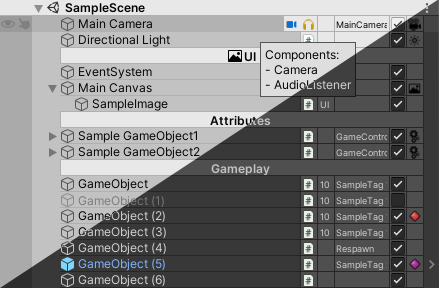
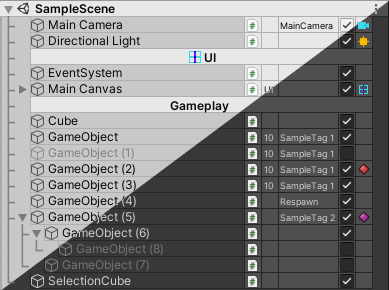
Update docs; fix displaying hierarchy property labels after full-rect labels; update default settings; minor refactor changes

diff --git a/Assets/Editor Toolbox/Editor/Hierarchy/HierarchyPropertyLabel.cs b/Assets/Editor Toolbox/Editor/Hierarchy/HierarchyPropertyLabel.cs
@@ -7,7 +7,7 @@ using UnityEngine;
 
 namespace Toolbox.Editor.Hierarchy
 {
-    //TODO: refactor
+    //TODO: refactor: replace labels with drawers (similar approach to the Inspector), possibility to define drawers and implement them using a dedicated base class
 
     /// <summary>
     /// Base class for all custom, Hierarchy-related labels based on targeted <see cref="GameObject"/>.
@@ -15,16 +15,6 @@ namespace Toolbox.Editor.Hierarchy
     public abstract class HierarchyPropertyLabel
     {
         protected GameObject target;
-
-        /// <summary>
-        /// Does this label draw over the whole item?
-        /// </summary>
-        public virtual bool UsesWholeItemRect { get; } = false;
-
-        /// <summary>
-        /// Should this label draw for headers too?
-        /// </summary>
-        public virtual bool DrawForHeaders { get; } = false;
 
         public virtual bool Prepare(GameObject target, Rect availableRect)
         {
@@ -52,7 +42,6 @@ namespace Toolbox.Editor.Hierarchy
 
         public abstract void OnGui(Rect rect);
 
-
         /// <summary>
         /// Returns built-in label class associated to provided <see cref="HierarchyItemDataType"/>.
         /// </summary>
@@ -77,6 +66,16 @@ namespace Toolbox.Editor.Hierarchy
             return null;
         }
 
+        /// <summary>
+        /// Does this label draw over the whole item?
+        /// </summary>
+        public virtual bool UsesWholeItemRect { get; } = false;
+
+        /// <summary>
+        /// Should this label draw for headers too?
+        /// </summary>
+        public virtual bool DrawForHeaders { get; } = false;
+
         #region Classes: Internal
 
         private class HierarchyIconLabel : HierarchyPropertyLabel
@@ -84,24 +83,27 @@ namespace Toolbox.Editor.Hierarchy
             public override void OnGui(Rect rect)
             {
                 var content = EditorGuiUtility.GetObjectContent(target, typeof(GameObject));
-                if (content.image)
+                if (content.image == null)
                 {
-                    GUI.Label(rect, content.image);
+                    return;
                 }
+
+                GUI.Label(rect, content.image);
             }
         }
 
         private class HierarchyToggleLabel : HierarchyPropertyLabel
         {
+            private readonly GUIContent label = new GUIContent(string.Empty, "Enable/disable GameObject");
+
             public override void OnGui(Rect rect)
             {
-                var content = new GUIContent(string.Empty, "Enable/disable GameObject");
                 //NOTE: using EditorGUI.Toggle will cause bug and deselect all hierarchy toggles when you will pick a multi-selected property in the Inspector
                 var result = GUI.Toggle(new Rect(rect.x + EditorGUIUtility.standardVerticalSpacing,
                         rect.y,
                         rect.width,
                         rect.height),
-                    target.activeSelf, content);
+                    target.activeSelf, label);
 
                 if (rect.Contains(Event.current.mousePosition))
                 {
@@ -116,6 +118,8 @@ namespace Toolbox.Editor.Hierarchy
 
         private class HierarchyTagLabel : HierarchyPropertyLabel
         {
+            private const string untaggedTag = "Untagged";
+
             public override float GetWidth()
             {
                 return Style.maxWidth;
@@ -123,7 +127,7 @@ namespace Toolbox.Editor.Hierarchy
 
             public override void OnGui(Rect rect)
             {
-                var content = new GUIContent(target.CompareTag("Untagged") ? string.Empty : target.tag, target.tag);
+                var content = new GUIContent(target.CompareTag(untaggedTag) ? string.Empty : target.tag, target.tag);
                 EditorGUI.LabelField(rect, content, Style.defaultAlignTextStyle);
             }
         }
@@ -165,7 +169,6 @@ namespace Toolbox.Editor.Hierarchy
             /// </summary>
             private List<Component> cachedComponents;
 
-
             private void CacheComponents(GameObject target)
             {
                 var components = target.GetComponents<Component>();
@@ -173,10 +176,12 @@ namespace Toolbox.Editor.Hierarchy
                 //cache only valid (non-null) components
                 foreach (var component in components)
                 {
-                    if (component)
+                    if (component == null)
                     {
-                        cachedComponents.Add(component);
+                        continue;
                     }
+
+                    cachedComponents.Add(component);
                 }
             }
 
@@ -211,7 +216,6 @@ namespace Toolbox.Editor.Hierarchy
 
                 return content;
             }
-
 
             public override bool Prepare(GameObject target, Rect availableRect)
             {
@@ -302,11 +306,12 @@ namespace Toolbox.Editor.Hierarchy
             private const float columnSize = 14.0f;
 
             private readonly List<TreeLineLevelRenderer> levelRenderers = new List<TreeLineLevelRenderer>();
+
             private int itemRenderCount = 0;
 
             public HierarchyTreeLinesLabel()
             {
-                EditorApplication.update += ResetItemRenderCount; 
+                EditorApplication.update += ResetItemRenderCount;
             }
 
             public void Dispose()
@@ -314,7 +319,7 @@ namespace Toolbox.Editor.Hierarchy
                 EditorApplication.update -= ResetItemRenderCount;
             }
 
-            public override sealed void OnGui(Rect rect)
+            public sealed override void OnGui(Rect rect)
             {
                 if (Event.current.type != EventType.Repaint)
                 {
@@ -322,7 +327,6 @@ namespace Toolbox.Editor.Hierarchy
                 }
 
                 var levels = (int)((rect.x + firstElementXOffset) / columnSize);
-
                 if (levels <= 0)
                 {
                     return;
@@ -354,7 +358,7 @@ namespace Toolbox.Editor.Hierarchy
 
                     x--;
 
-                    Transform transformBuffer = targetTransform;
+                    var transformBuffer = targetTransform;
                     for (; x >= startIndex; x--)
                     {
                         levelRenderers[x].Initialize(transformBuffer);
@@ -362,10 +366,10 @@ namespace Toolbox.Editor.Hierarchy
                     }
                 }
 
-                Color colorCache = GUI.color;
+                var colorCache = GUI.color;
                 GUI.color = Color.gray;
 
-                int i = 0;
+                var i = 0;
                 for (; i < (levels - 1); i++)
                 {
                     levelRenderers[i].OnGUI(rect, target, siblingIndex, false);
@@ -382,9 +386,9 @@ namespace Toolbox.Editor.Hierarchy
                 itemRenderCount = 0;
             }
 
-            public override sealed bool UsesWholeItemRect => true;
+            public sealed override bool UsesWholeItemRect => true;
 
-            public override sealed bool DrawForHeaders => true;
+            public sealed override bool DrawForHeaders => true;
 
             private bool IsFirstRenderedElement => itemRenderCount == 0;
 
@@ -463,6 +467,8 @@ namespace Toolbox.Editor.Hierarchy
             internal static readonly GUIContent elementCross;
             internal static readonly GUIContent elementPass;
 
+            internal static readonly Color characterColor;
+
             static Style()
             {
                 elementLast = new GUIContent("└");
@@ -501,6 +507,11 @@ namespace Toolbox.Editor.Hierarchy
                 {
                     fontSize = 18,
                 };
+
+                if (!EditorGUIUtility.isProSkin)
+                {
+                    centreAlignTreeLineStyle.normal.textColor = Color.white;
+                }
             }
         }
     }

diff --git a/Assets/Editor Toolbox/Editor/ToolboxEditorHierarchy.cs b/Assets/Editor Toolbox/Editor/ToolboxEditorHierarchy.cs
@@ -30,12 +30,10 @@ namespace Toolbox.Editor
             EditorApplication.hierarchyWindowItemOnGUI += OnItemCallback;
         }
 
-
         /// <summary>
         /// All valid and prepared label drawers for each item.
         /// </summary>
         private static readonly List<HierarchyPropertyLabel> propertyLabels = new List<HierarchyPropertyLabel>();
-
 
         /// <summary>
         /// Tries to display item label in the Hierarchy Window.
@@ -71,7 +69,6 @@ namespace Toolbox.Editor
                 DrawSceneHeaderLabel(rect);
             }
         }
-
 
         /// <summary>
         /// Creates optional information about selected objects using the internal <see cref="Selection"/> class.
@@ -159,9 +156,13 @@ namespace Toolbox.Editor
                 {
                     //each property label has to be created in validated (adjusted) area 
                     //depending on previously occupied rect we have to adjust current rect
-                    contentRect = AppendPropertyLabel(propertyLabels[i], gameObject, availableRect);
-                    availableRect.xMax -= contentRect.width;
-
+                    var propertyLabel = propertyLabels[i];
+                    contentRect = AppendPropertyLabel(propertyLabel, gameObject, availableRect);
+                    if (!propertyLabel.UsesWholeItemRect)
+                    {
+                        availableRect.xMax -= contentRect.width;
+                    }
+      
                     EditorGUI.DrawRect(new Rect(contentRect.xMin, rect.y, Style.lineWidth, rect.height), Style.lineColor);
                 }
 
@@ -180,7 +181,6 @@ namespace Toolbox.Editor
                 EditorGUI.DrawRect(new Rect(rect.x, rect.yMax - Style.lineWidth, rect.width, Style.lineWidth), Style.lineColor);
             }
         }
-
 
         private static Rect AppendPropertyLabel(HierarchyPropertyLabel propertyLabel, GameObject target, Rect availableRect)
         {
@@ -315,7 +315,6 @@ namespace Toolbox.Editor
 
         internal static void RepaintHierarchyOverlay() => EditorApplication.RepaintHierarchyWindow();
 
-
         /// <summary>
         /// Determines if <see cref="ToolboxEditorHierarchy"/> can create an additional overlay on the Hierarchy Window.
         /// </summary>
@@ -324,7 +323,6 @@ namespace Toolbox.Editor
         internal static bool DrawHorizontalLines { get; set; } = true;
         internal static bool ShowSelectionsCount { get; set; } = true;
         internal static bool DrawSeparationLines { get; set; } = true;
-
 
         private static class Style
         {

diff --git a/Assets/Editor Toolbox/README.md b/Assets/Editor Toolbox/README.md
@@ -842,6 +842,7 @@ Each row can contain:
 - Tag
 - Toggle to enable/disable GameObject
 - Icon
+- Tree Lines
 
 ![inspector](https://github.com/arimger/Unity-Editor-Toolbox/blob/develop/Docs/hierarchy.png)
 
@@ -928,4 +929,5 @@ Assets/Create/Editor Toolbox/ScriptableObject Creation Wizard
 
 Select a specific object that is under the cursor (default key: tab).
 
+![inspector](https://github.com/arimger/Unity-Editor-Toolbox/blob/develop/Docs/sceneview.png)
 ![inspector](https://github.com/arimger/Unity-Editor-Toolbox/blob/develop/Docs/sceneview.png)

diff --git a/Assets/Editor Toolbox/CHANGELOG.md b/Assets/Editor Toolbox/CHANGELOG.md
@@ -1,8 +1,12 @@
-## 0.12.13 [WIP]
+## 0.12.13 [19.08.2024]
 
 ### Changed:
 - Hierarchy: Added Tree List renderer, which improves visual identification of parent and child gameobjects
 - Fix SceneView settings change events firing when they shouldn't
+- Fix issue when trying to find private fields/properties from parent classes (e.g. while using conditional attributes)
+
+### Added:
+- DisableInEditModeAttribute
 
 ## 0.12.12 [17.06.2024]
 

diff --git a/README.md b/README.md
@@ -843,6 +843,7 @@ Each row can contain:
 - Toggle to enable/disable GameObject
 - Icon
 - Tree Lines
+
 ![inspector](https://github.com/arimger/Unity-Editor-Toolbox/blob/develop/Docs/hierarchy.png)
 
 ### Project <a name="project"></a>
